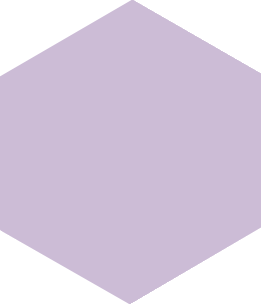
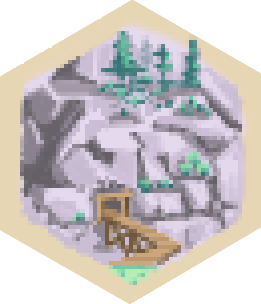
Ore hex: new mountain/mine asset, match wood/sheep/brick rendering

diff --git a/src/components/HexBoard.tsx b/src/components/HexBoard.tsx
@@ -221,11 +221,11 @@ export function HexBoard({
               <g clipPath={`url(#hex-clip-${h.id})`}>
                 <image
                   href="/ore-hex.png"
-                  x={center.x - HEX_R * 2}
-                  y={center.y - HEX_R * 2}
-                  width={HEX_R * 4}
-                  height={HEX_R * 4}
-                  preserveAspectRatio="none"
+                  x={center.x - HEX_R}
+                  y={center.y - HEX_R}
+                  width={HEX_R * 2}
+                  height={HEX_R * 2}
+                  preserveAspectRatio="xMidYMid meet"
                   style={{ imageRendering: 'pixelated', pointerEvents: 'none' }}
                 />
               </g>
